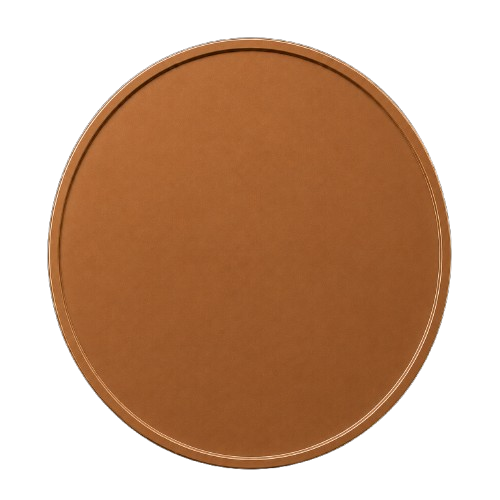
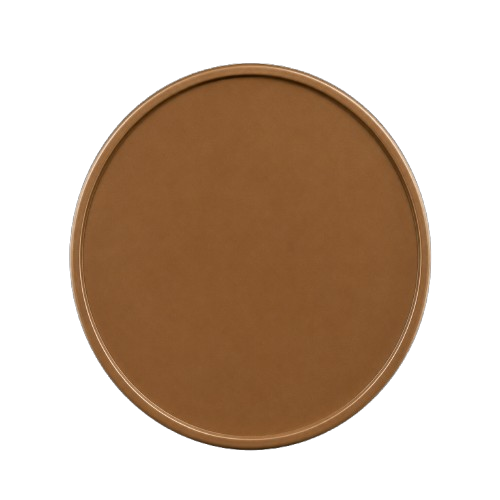
feat: enhance text zone handling and improve group order functionality

diff --git a/assets/conf-text-editor.js b/assets/conf-text-editor.js
@@ -462,8 +462,18 @@
       el.classList.remove('is-shaped');
       content.textContent = data.text;
     }
-    // Contrainte : rester dans la zone.
-    if (typeof window.clampTextToZone === 'function') window.clampTextToZone(zone);
+    /* Contrainte : rester dans la zone.
+       Rejouée après le chargement de la police : la première mesure se fait
+       sur la police de repli (les Google Fonts arrivent en différé), donc sur
+       des dimensions fausses — le texte pouvait déborder une fois la vraie
+       police appliquée. */
+    if (typeof window.clampTextToZone === 'function') {
+      window.clampTextToZone(zone);
+      if (document.fonts && document.fonts.ready) {
+        document.fonts.ready.then(function () { window.clampTextToZone(zone); });
+      }
+      setTimeout(function () { window.clampTextToZone(zone); }, 120);
+    }
     if (typeof window.refreshZoneGuides === 'function') window.refreshZoneGuides();
   }
 